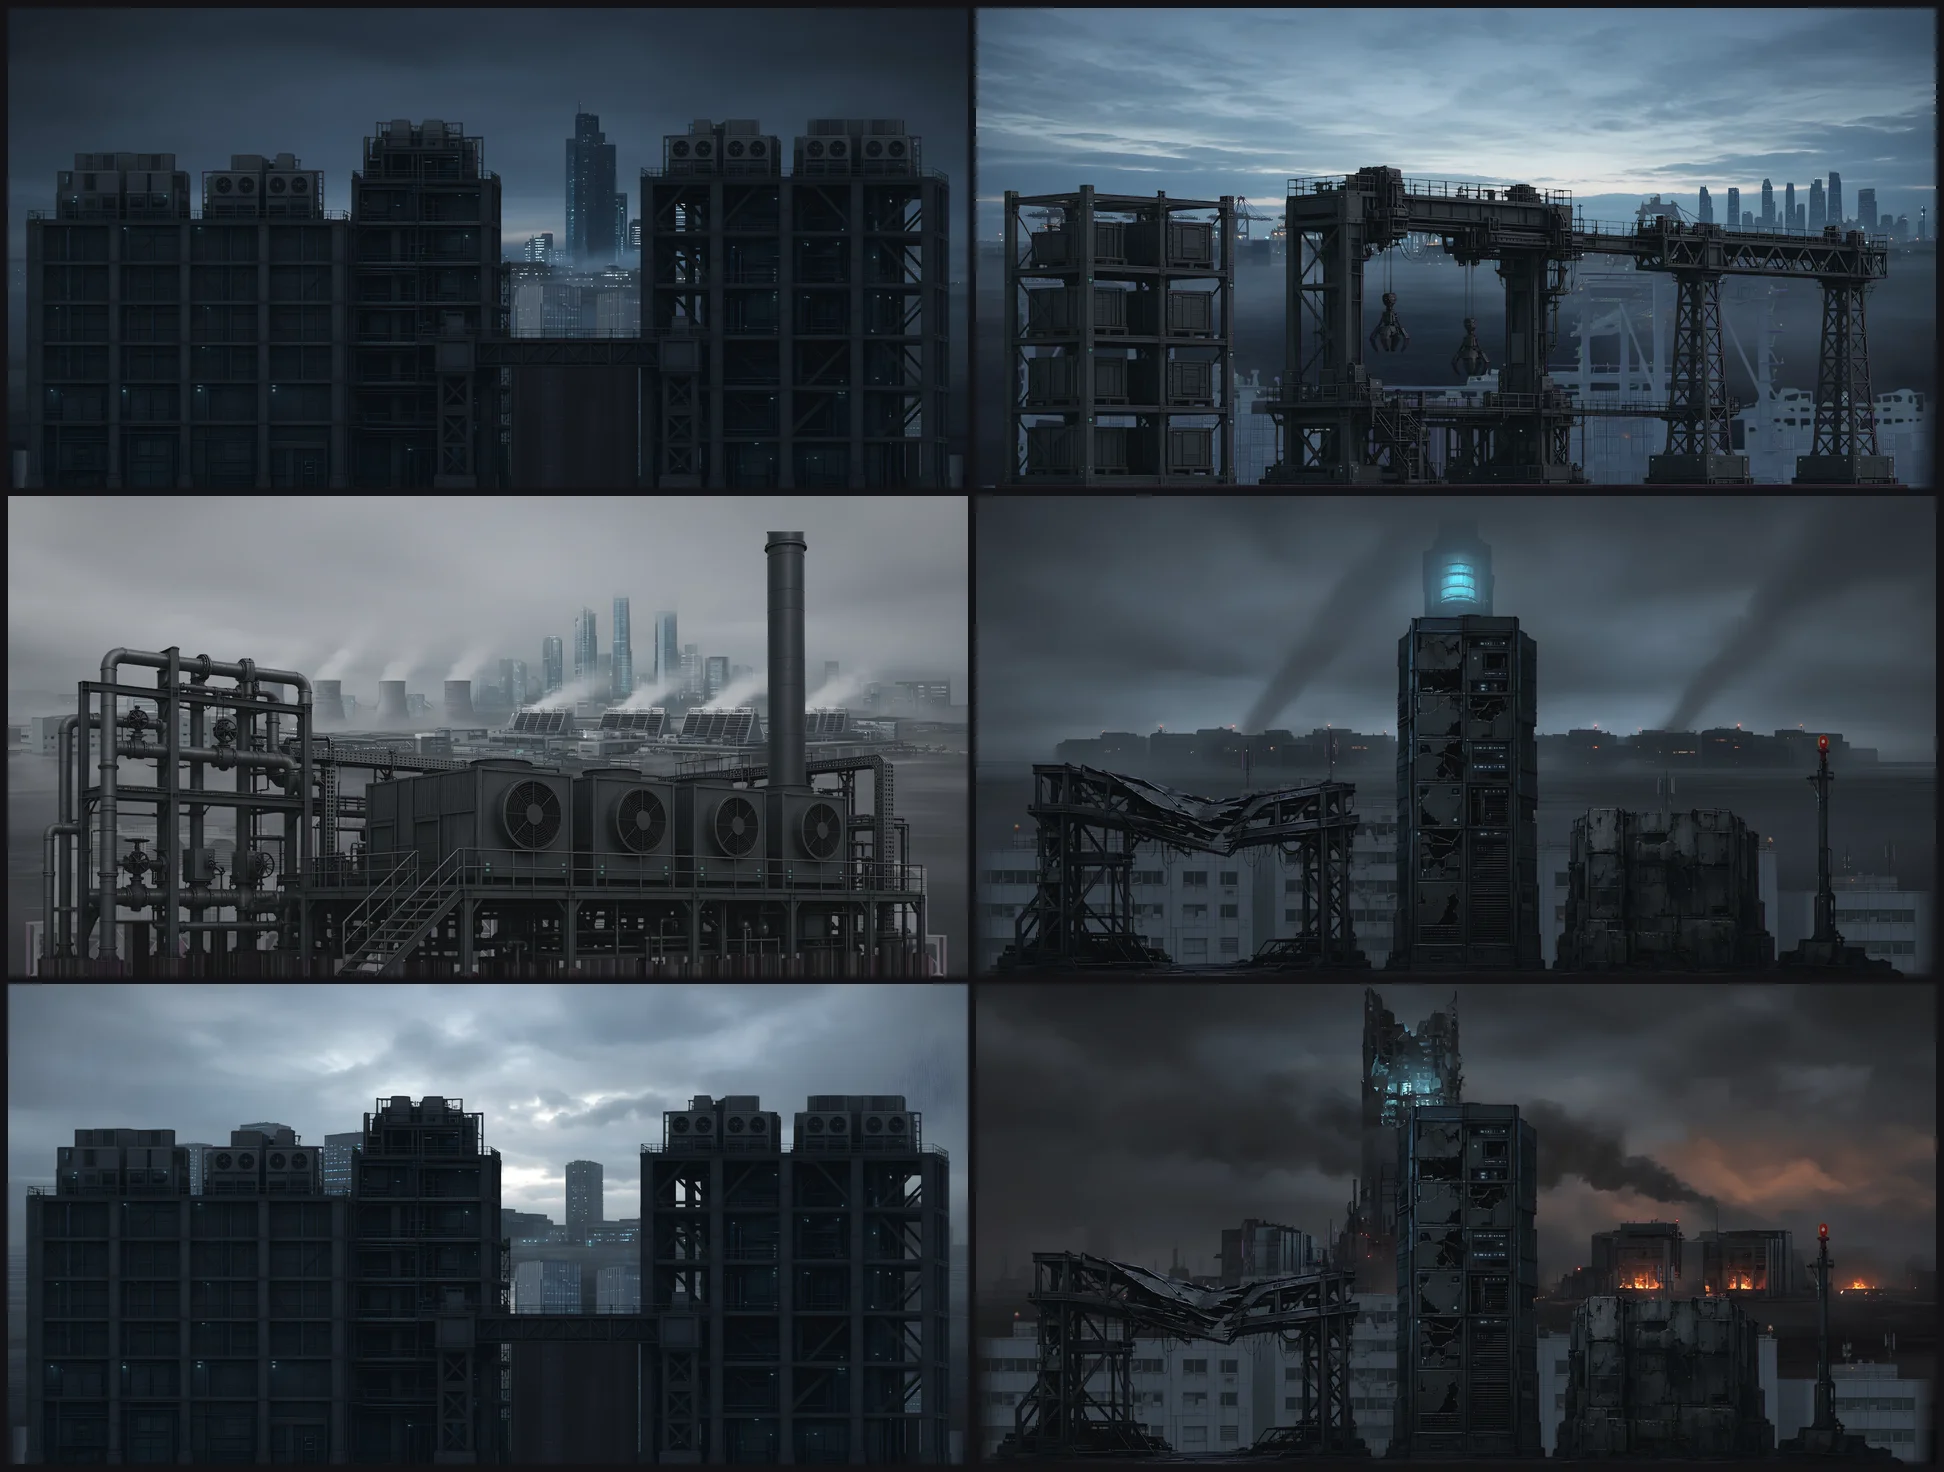
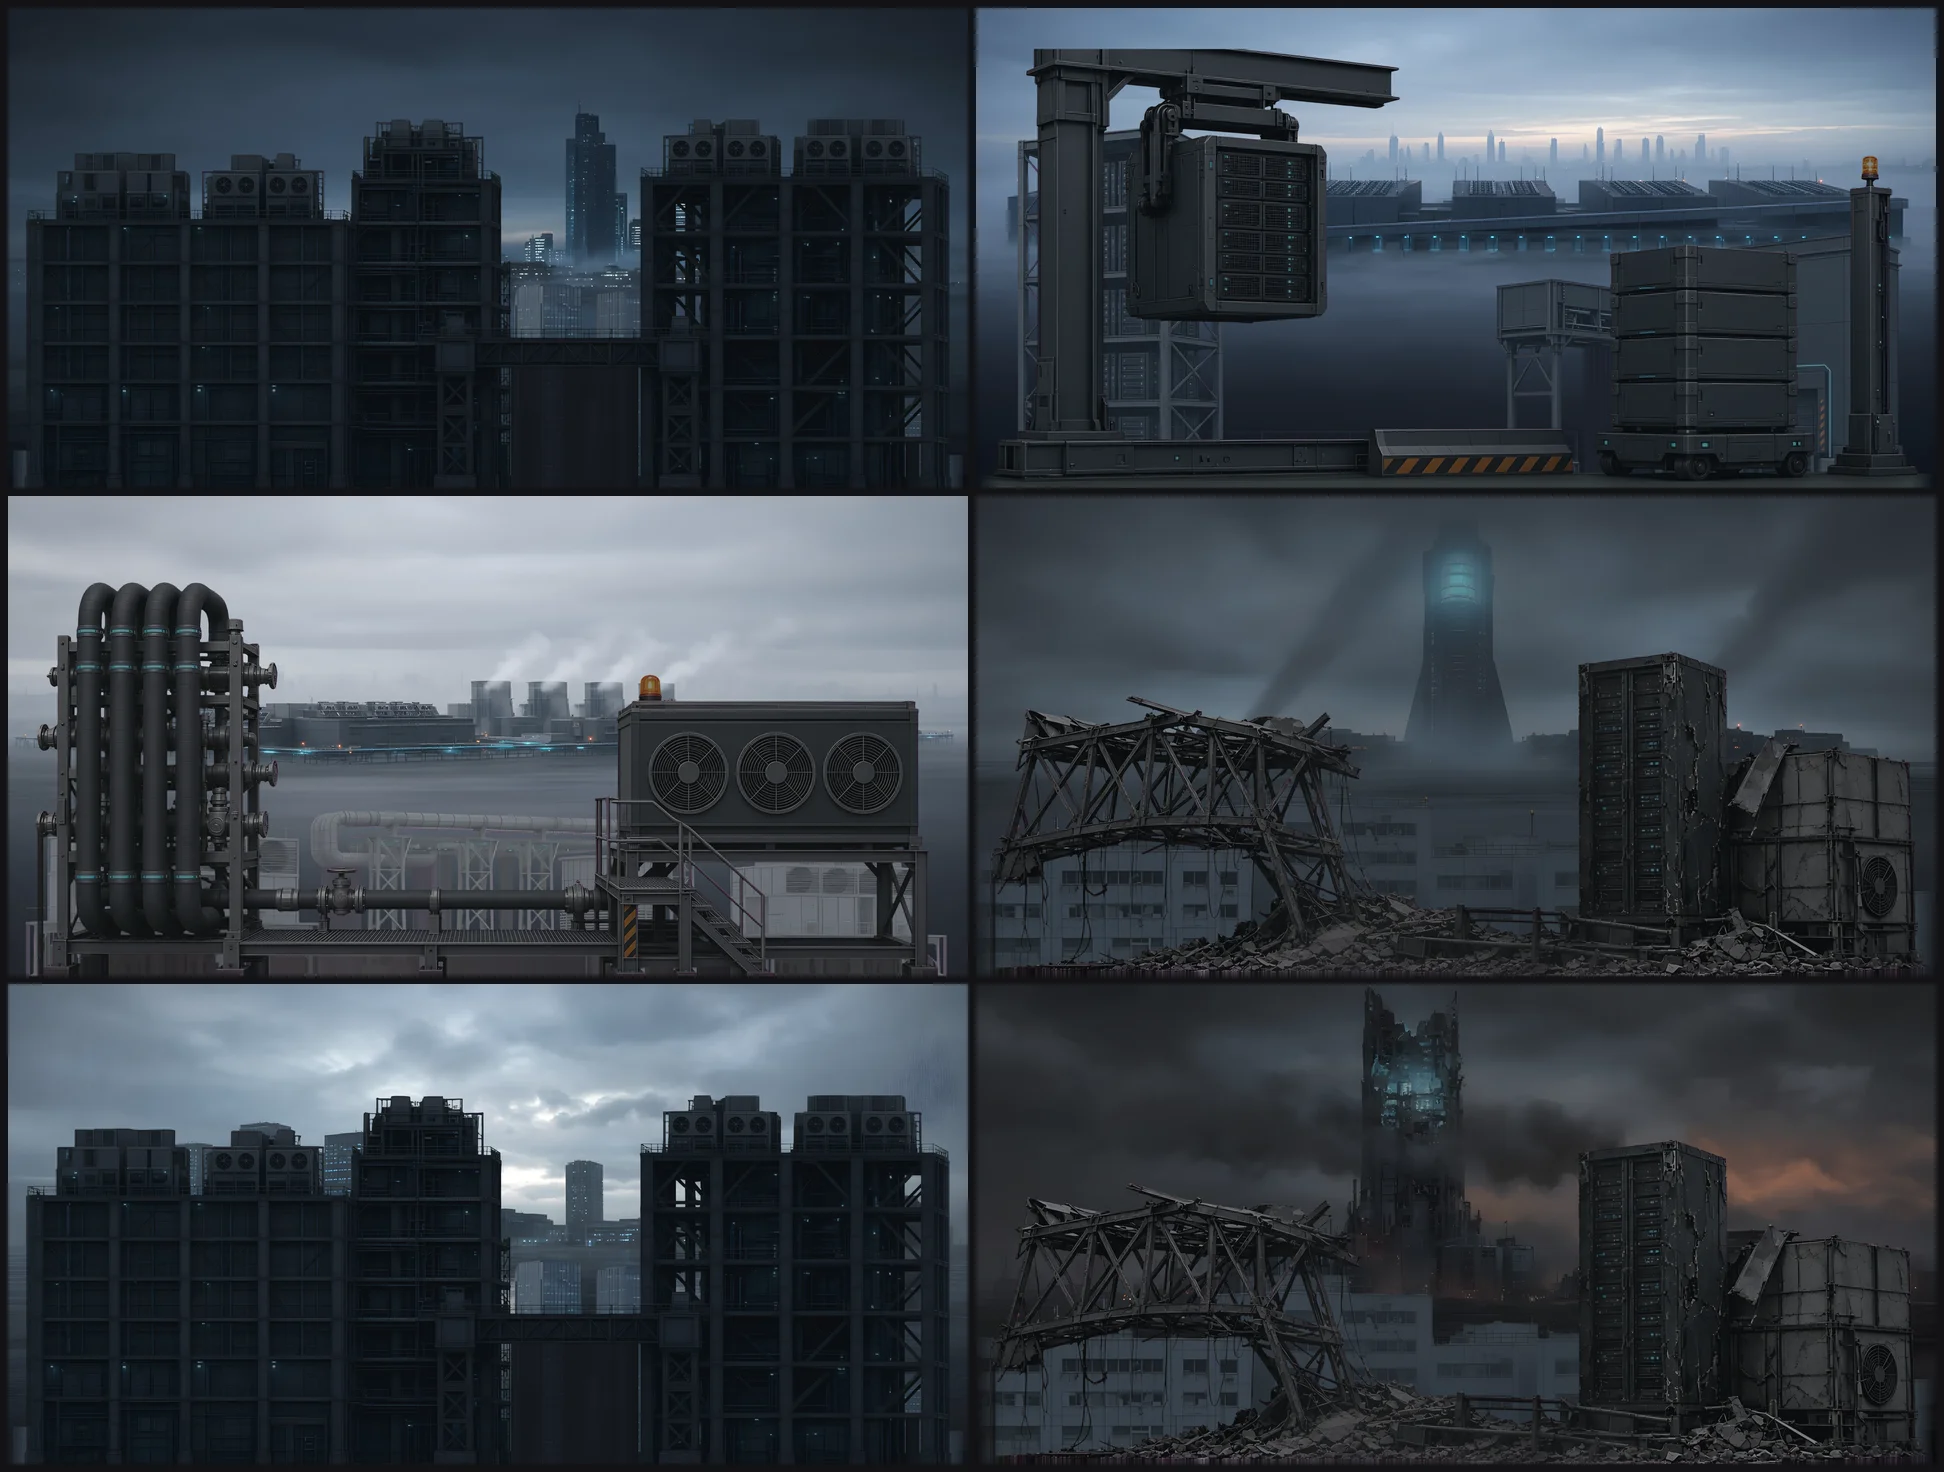
surfaces batch 9: Helix background review (logistics, cooling, core quiet centre), teaser 2041, loading, menu and transition screens

Changed region(s): [[0.0, 0.3125, 0.9877, 0.6875], [0.4938, 0.0, 1.0, 0.3438], [0.4938, 0.7188, 0.9877, 1.0]]

diff --git a/generated_assets/cinematics/PRODUCTION_NOTES.md b/generated_assets/cinematics/PRODUCTION_NOTES.md
@@ -14,7 +14,7 @@ All entries are `pending_review`. Masters (1920 x 1080 PNG) and the source log a
 | `subtitles/` | One `.srt` per sequence and `subtitles.json` (cue start and end per slide) |
 | `previews/` | Contact sheets; the yellow line on each frame marks the top of the subtitle band (lower 18%) |
 
-Loading art (`<CH>-BG-LOADING-A`), the main menu backdrop (`GAM-BG-MAIN_MENU-A`) and the five chapter transition cards (`<CH>-BG-TRANSITION-A`) are in `../environments/screens/`. Sequences without their own end card plate use the chapter transition card behind the in-engine end title.
+Loading art (`<CH>-BG-LOADING-A`), an alternative main menu backdrop (`GAM-BG-MAIN_MENU-B`; `-A` is the ui-vfx stream's backdrop, so this one took `-B` to keep ids unique) and the five chapter transition cards (`<CH>-BG-TRANSITION-A`) are in `../environments/screens/`. Sequences without their own end card plate use the chapter transition card behind the in-engine end title.
 
 ## Using the sequence file
 
@@ -32,7 +32,7 @@ The `teaser_2041` sequence is new and not in `data/cinematics.json`. Its four li
 ## Delivery status
 
 - Delivered and checked: `opening`, `ch01_intro` to `ch04_outro`, `ch05_intro` and `finale` (11 sequences, 48 stills including the opening and finale end cards). Godot 4.7.2 check (scratch project with a copy of `scripts/`, `godot --headless --script res://check.gd -- cinematic_sequences.json`): 11 sequences, errors 0, missing images 0. Civitas outro, Meridian intro and the finale are new in batch 8.
-- In progress: `teaser_2041` (two of four stills upscaled; the sequence and its `.srt` are written once all four exist), loading art, main menu and transition cards.
+- Batch 9: `teaser_2041` (four stills, sequence and `.srt`), the five loading screens, the main menu backdrop and the five transition cards. All 63 planned stills and screens are now delivered (12 sequences). Godot check rerun: 12 sequences, errors 0, missing images 0 (teaser 4 slides, 23.6 s). The VITA loading screen and transition card are bright in the lower band (white architecture, light streaks, in the VITA palette); put loading text or a progress bar on a dark scrim there. Screens carry no subtitle band rule, so they were not graded.
 - Subtitle timing fix: cue times are rounded to whole milliseconds first and then split into hours, minutes, seconds and milliseconds, so a start such as 20.9999 s is written `00:00:21,000` (pass 16 report). All `.srt` files were regenerated with it; every timestamp has three millisecond digits and seconds below 60.
 - Band check: four stills with busy lower bands (`CVT-CIN-INTRO-03`, `MRD-CIN-INTRO-03`, `GAM-CIN-FINALE-05`, `-06`) were graded darker; their bands stay textured but dark (band mean 0.06 to 0.09, no bright pixels above the threshold except 1.8% on `FINALE-06`), so white subtitles stay readable. Values are in the masters `band_report.json`.
 

diff --git a/generated_assets/environments/PRODUCTION_NOTES.md b/generated_assets/environments/PRODUCTION_NOTES.md
@@ -65,6 +65,16 @@ What the renders show, for review:
 - Meridian excavation (band 1 and V1) is the brightest set and competes most with the greybox blocks. If it is too strong once real components are in, lower the card `albedo_color` to about 0.8.
 - The Meridian convergence mid and near cards were regenerated after review (the first pair read as clay renders and did not sit in the night light).
 
+## Helix review (batch 9)
+
+Every Helix set was checked against the chapter brief (Helix Systems AI infrastructure: server halls, data-centre architecture, cooling, cold steel and cyan with orange warnings) and the SV-04 style frame. Changes, same ids and paths:
+
+- Band 2 logistics: the first far, mid and near plates read as a cargo port (container cranes over water, grab claws, shipping containers). All three were regenerated as data-centre logistics: a server-hall campus with an enclosed rack conveyor and lit dock doors on the far plate, a rack storage tower and a conveyor bridge into a dock on the mid card, and an overhead rack carrier, sealed server crates on a pallet mover and a cable column on the near card.
+- Band 3 cooling: the far plate showed round power-station cooling towers and solar fields, and the near card had a smokestack, so the set read as a power plant (and too close to Nova Grid). Regenerated: the far plate is a server-hall cooling yard with rooftop dry coolers and square evaporative towers; the near card is an insulated coolant manifold and a dry-cooler unit. The mid card (chillers and pipe bridge) was kept. A second far attempt was rejected because its high camera put the ground edge well below the horizon.
+- Band 4 core: contract 10 asks for a quiet band behind the critical asset. The near card was regenerated with an empty low middle third (the earlier card had a tall tower in the centre and a red beacon mast). The mid card, the band 4 far and the V2 far now get a quiet-centre pass in `bg.py`: across the middle 30 % of the card (8 % feather) local contrast is reduced, red light is desaturated and bright emission is pulled down. The far plates keep their detail (a lighter pass); the cyan core tower on the far plate is dimmed, not removed.
+- Bands 1, V1 and V2 were in brief and were kept.
+- `bg_godot.py HLX_1 HLX_2 HLX_3 HLX_4 HLX_V1 HLX_V2` was rerun: import rc 0, six `BGRENDER game_hlx_*` lines, render rc 0, no ERROR lines. `previews/godot_helix_sets.webp` and `previews/contact_helix_sets.webp` were regenerated.
+
 
 ## Environment modules, statics, props and landmarks (3d-kits stream)
 
